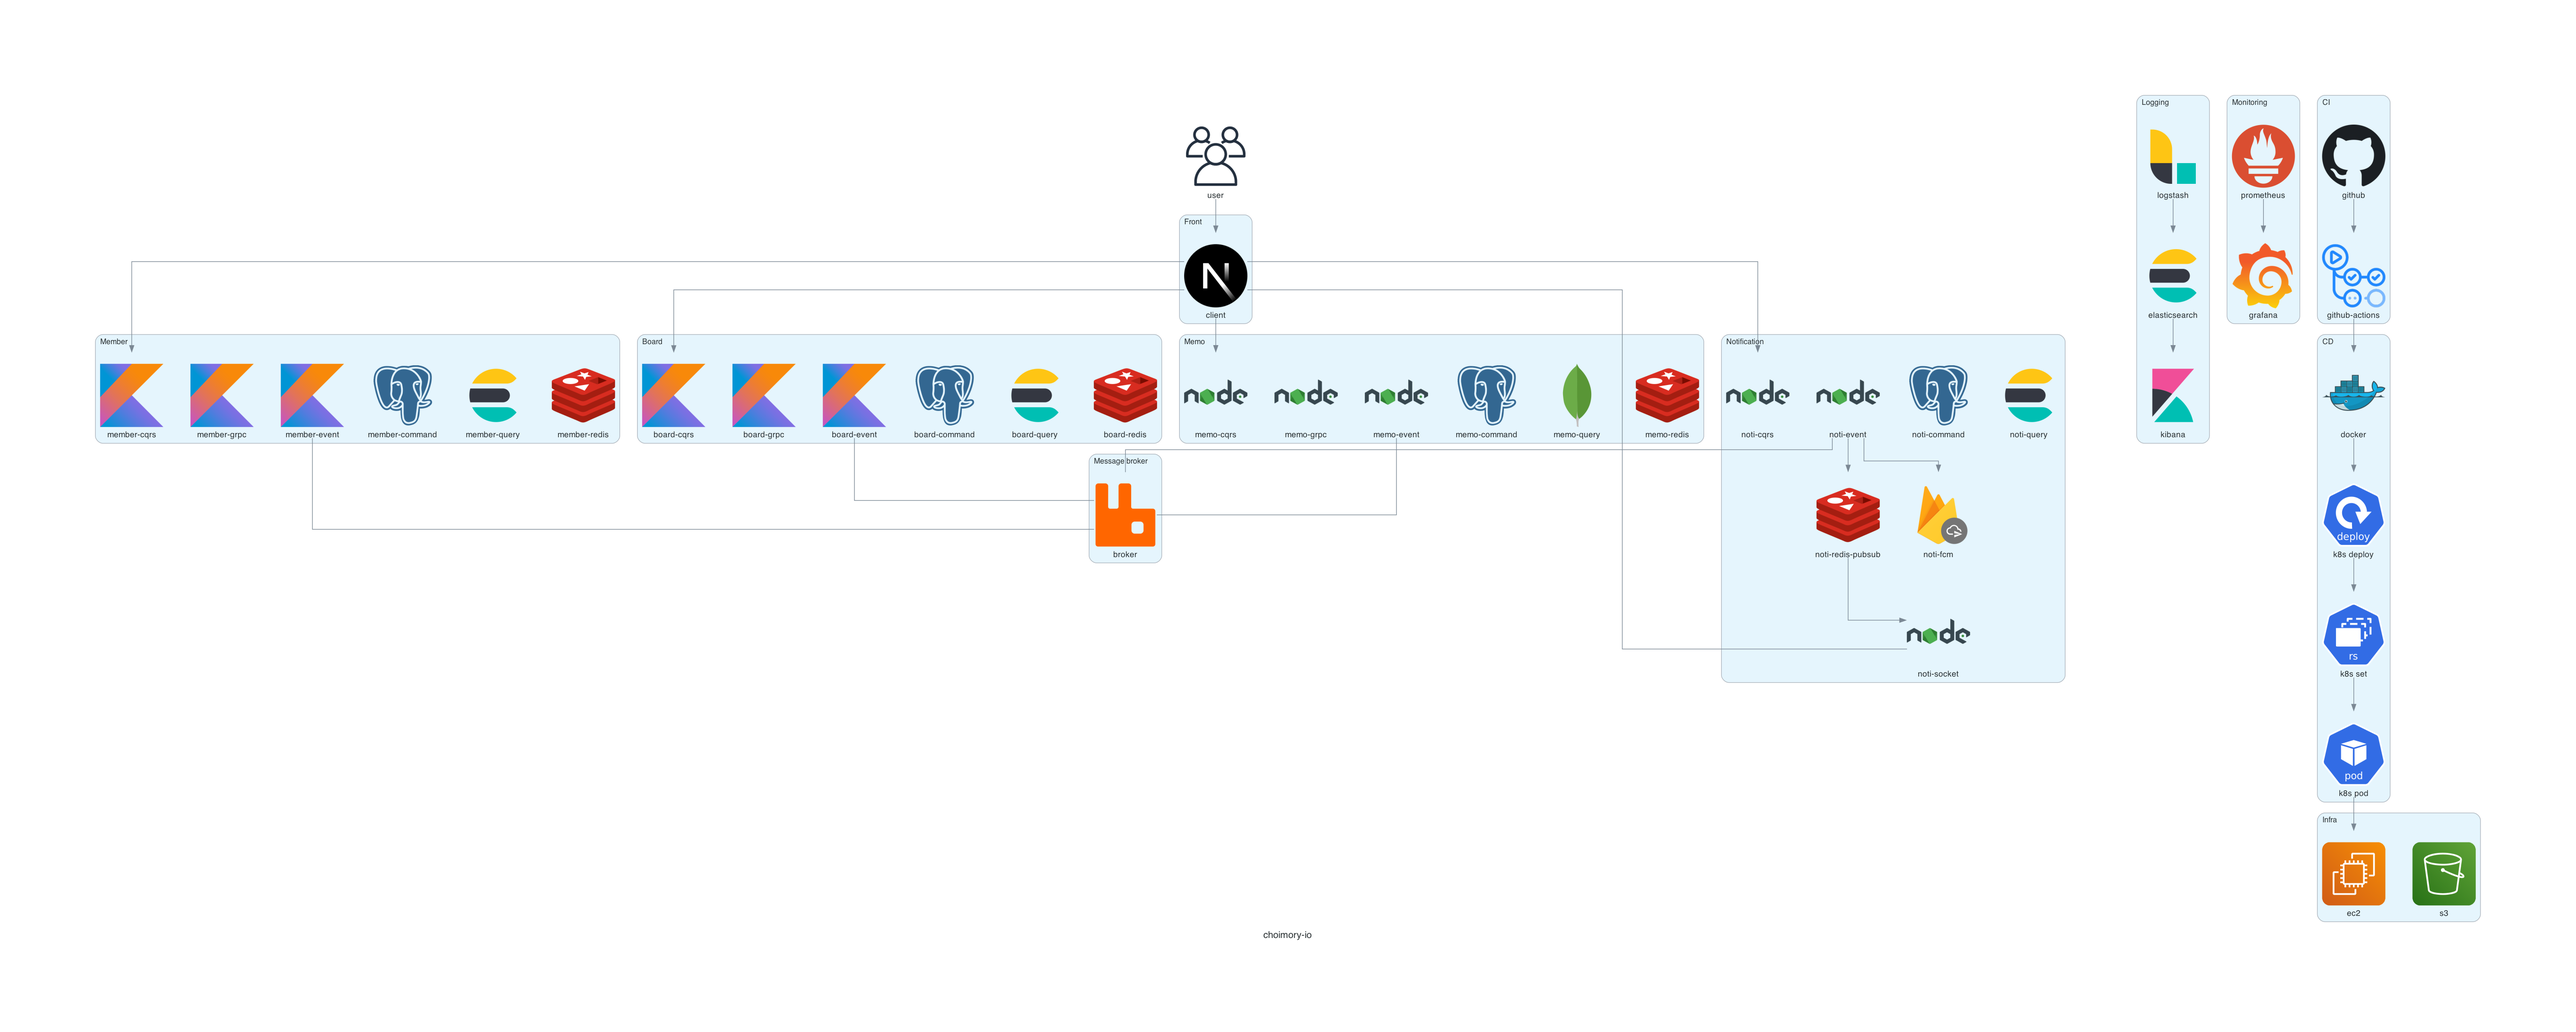
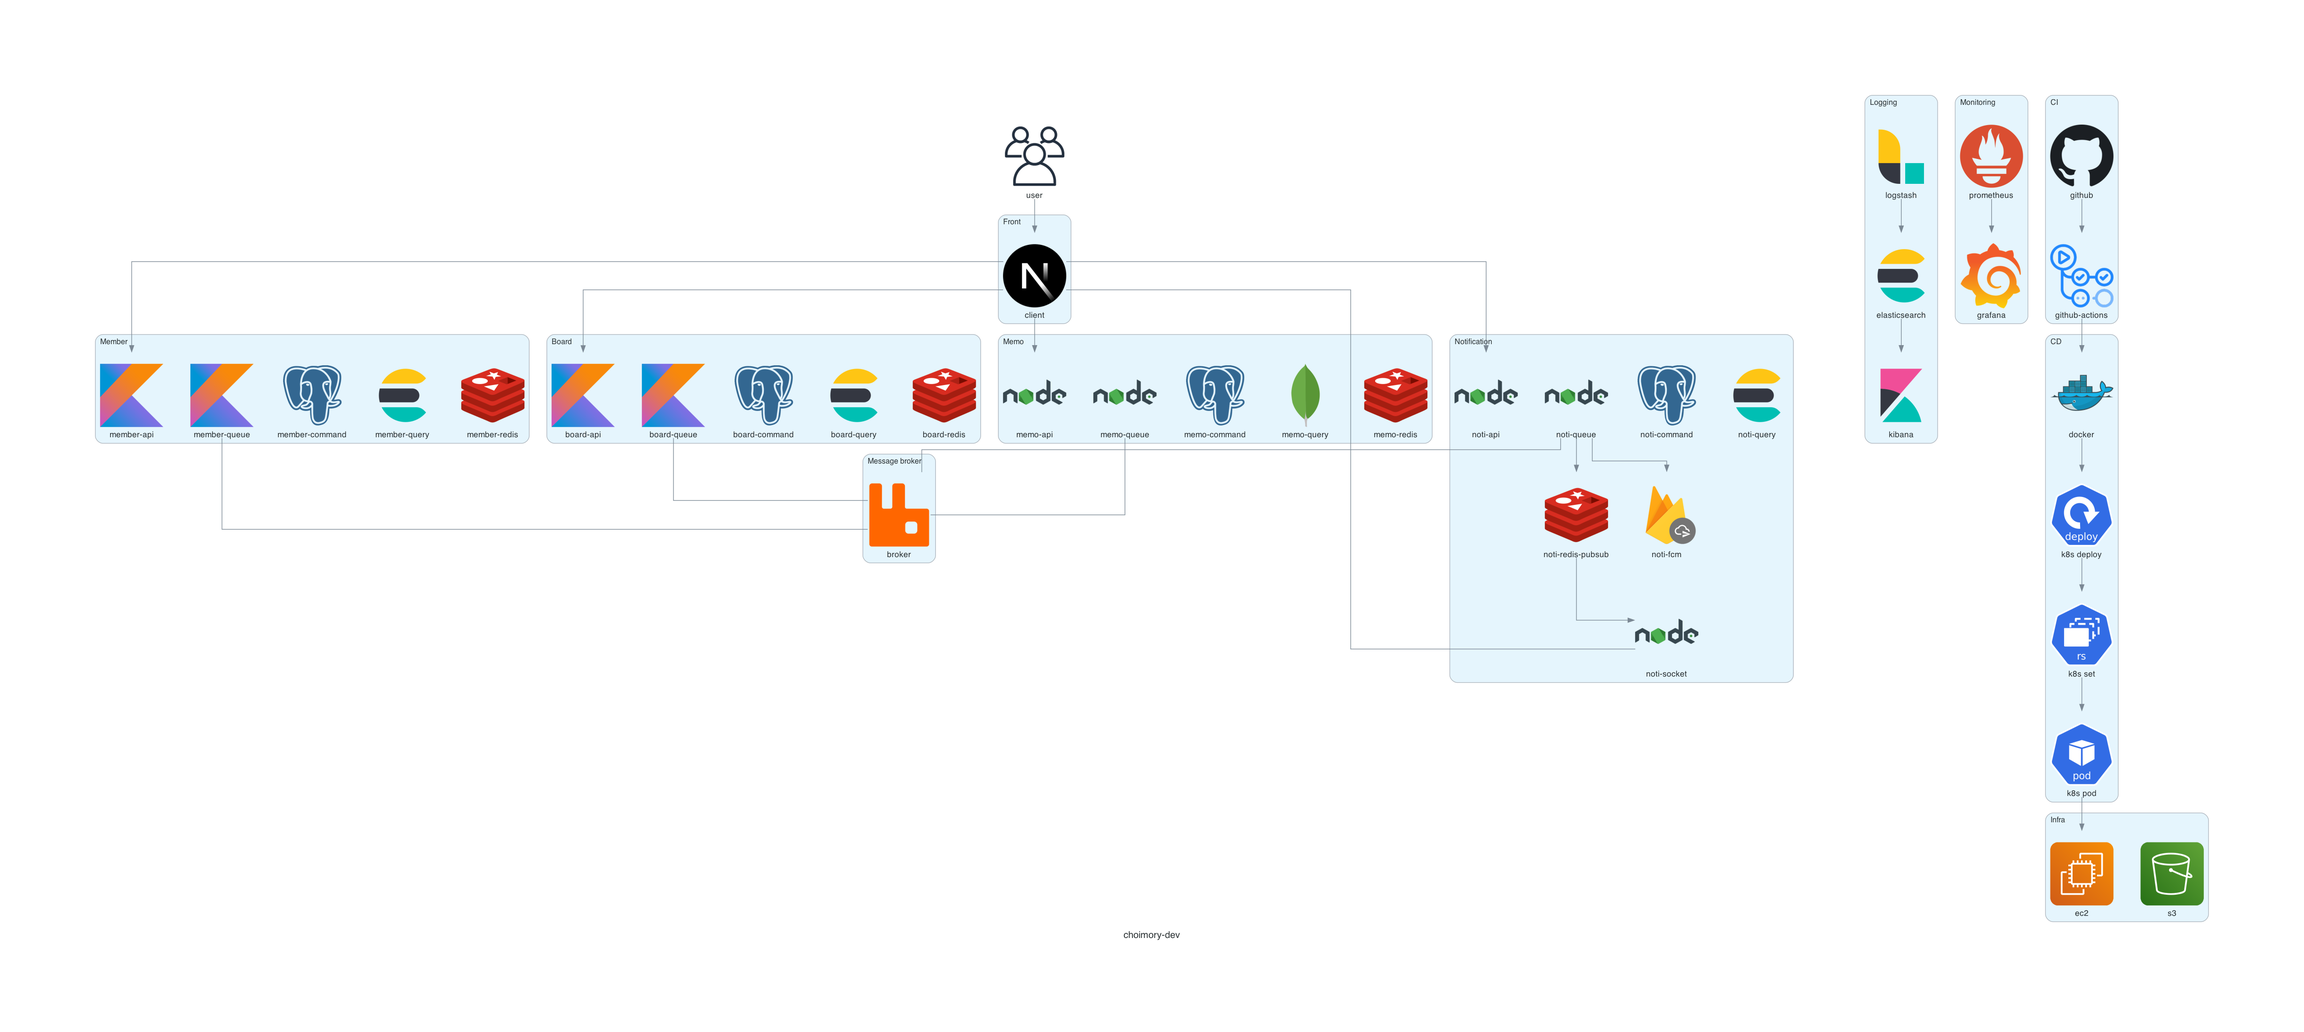
fix: choimory-dev gRPC 제거

Changed region(s): [[0.0312, 0.0929, 0.9682, 0.8984]]

diff --git a/choimory-dev/choimory-dev-architecture.py b/choimory-dev/choimory-dev-architecture.py
@@ -23,60 +23,57 @@ with Diagram("choimory-dev", direction="TB"):
         user >> front
 
     with Cluster("Member"):
-        member_cqrs = Kotlin("member-cqrs") # front <-> api
-        member_grpc = Kotlin("member-grpc") # api <-> api (query)
-        member_event = Kotlin("member-event") # api <-> api (command)
+        member_api = Kotlin("member-api") # front <-> api
+        member_queue = Kotlin("member-queue") # api <-> api (command)
 
         member_command = Postgresql("member-command")
         member_query = Elasticsearch("member-query")
         member_redis = Redis("member-redis")
         
-        front >> member_cqrs
+        front >> member_api
     
     with Cluster("Board"):
-        board_cqrs = Kotlin("board-cqrs")
-        board_grpc = Kotlin("board-grpc")
-        board_event = Kotlin("board-event")
+        board_api = Kotlin("board-api")
+        board_queue = Kotlin("board-queue")
 
         board_command = Postgresql("board-command")
         board_query = Elasticsearch("board-query")
         board_redis = Redis("board-redis")
 
-        front >> board_cqrs
+        front >> board_api
 
     with Cluster("Memo"):
-        memo_cqrs = Nodejs("memo-cqrs")
-        memo_grpc = Nodejs("memo-grpc")
-        memo_event = Nodejs("memo-event")
+        memo_api = Nodejs("memo-api")
+        memo_queue = Nodejs("memo-queue")
 
         memo_command = Postgresql("memo-command")
         memo_query = MongoDB("memo-query")
         memo_redis = Redis("memo-redis")
 
-        front >> memo_cqrs
+        front >> memo_api
 
     with Cluster("Notification"):
-        noti_cqrs = Nodejs("noti-cqrs")
+        noti_api = Nodejs("noti-api")
+        noti_queue = Nodejs("noti-queue")
         noti_socket = Nodejs("noti-socket")
-        noti_event = Nodejs("noti-event")
 
         noti_command = Postgresql("noti-command")
         noti_query = Elasticsearch("noti-query")
         noti_redis = Redis("noti-redis-pubsub")
         noti_fcm = FCM("noti-fcm")
 
-        front >> noti_cqrs
+        front >> noti_api
         front - noti_socket
-        noti_event >> noti_redis >> noti_socket
-        noti_event >> noti_fcm
+        noti_queue >> noti_redis >> noti_socket
+        noti_queue >> noti_fcm
 
     with Cluster("Message broker"):
         broker = Rabbitmq("broker")
 
-        memo_event - broker
-        board_event - broker
-        member_event - broker
-        noti_event - broker
+        memo_queue - broker
+        board_queue - broker
+        member_queue - broker
+        noti_queue - broker
 
     with Cluster("Logging"):
         logstash = LogStash("logstash")
